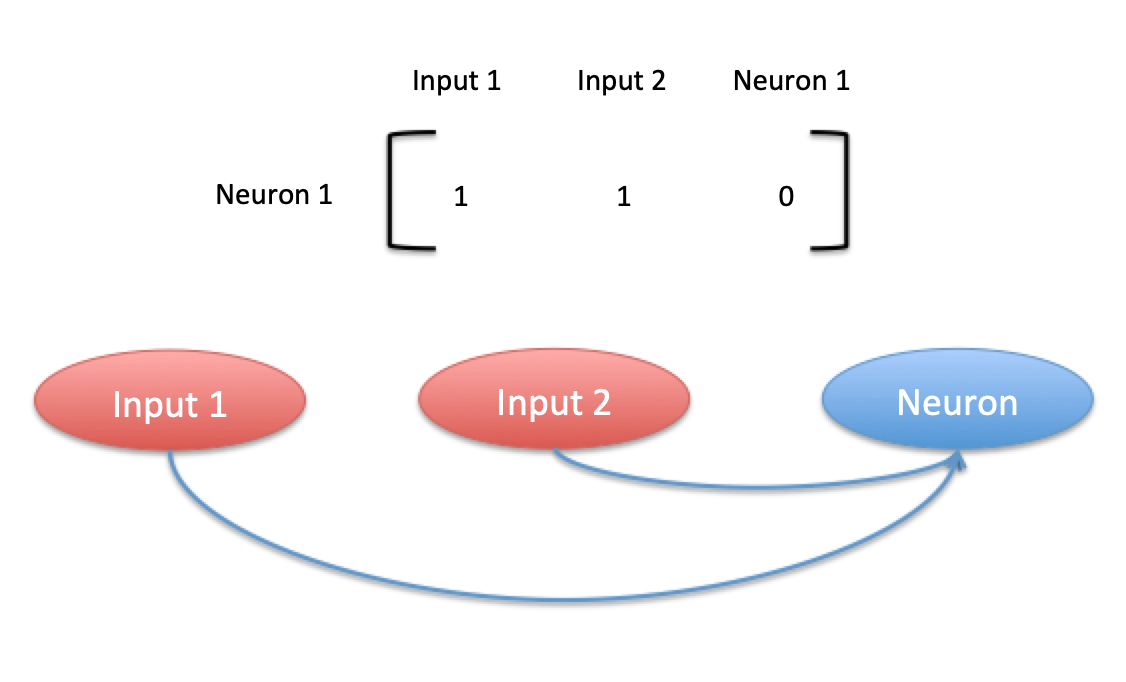
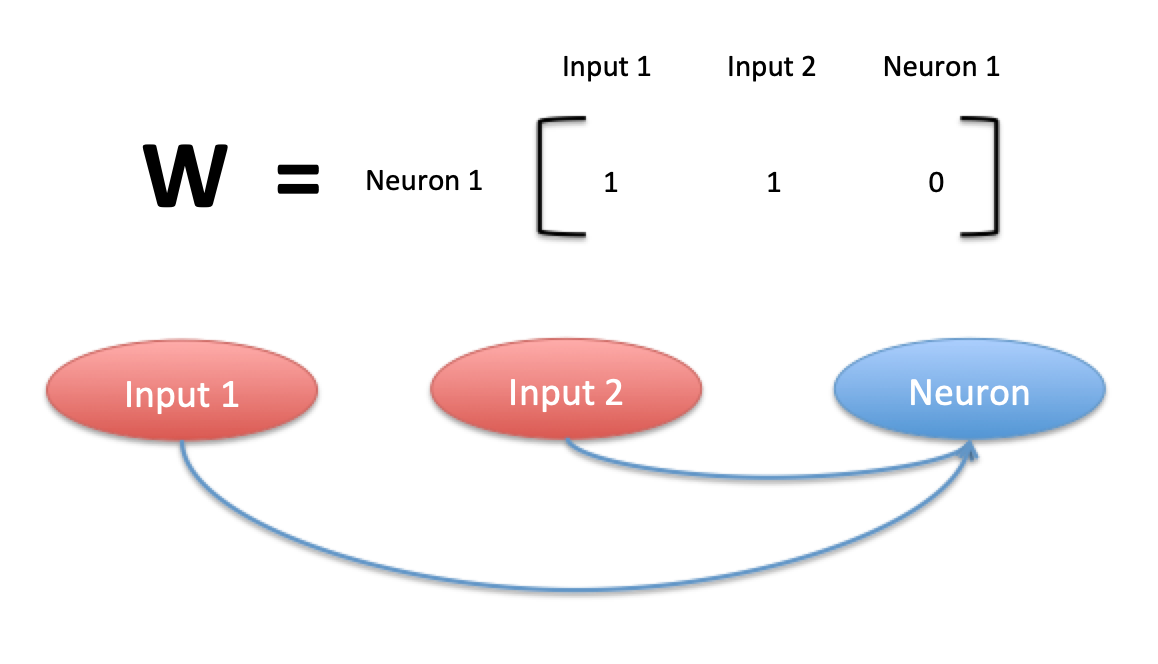
Update to readme

diff --git a/network.py b/network.py
@@ -45,7 +45,7 @@ class Network:
                     inputs[row] += self.weights[row][col]*get_prev_output(row,col)
         return inputs
                 
-    def propagate(external_inputs, self):
+    def network_step(external_inputs, self):
         # update the state of each neuron 
         neuron_inputs = generate_neuron_inputs(external_inputs)
         for i,neuron in enumerate(self.neurons):
@@ -61,7 +61,7 @@ class Network:
         pass
         
 # List of Neuron objects
-neur_1=Neuron({'x0': 0, })
+neur_1=Neuron({'x0': 0})
 neurons=[neur_1,neur_2,neur_3]
 # Weight matrix
 # Input goes 1, 1 goes to 2, 2 goes to 3, 3 goes to output

diff --git a/readme.md b/readme.md
@@ -5,12 +5,18 @@ Once initialized, a Network's primary method is to take in a set of signals at a
 
 ### Defining connections
 
-A network can be thought of as a system with $N+I$ "nodes" and $(N+I)^2$ "connections" between them, where $N$ is the number of neurons and $I$ is the number of inputs. 
+A network can be thought of as a system of inputs and outputs. 
+
+To construct your W matrix, consider the examples in the following images. 
 
 ![Alt text](graphics/simple_network.png "Simple network")
-
-To build your W and T matrices, consider the example in the image above. Read this as "neuron 1 (leftmost array) takes from input, neuron 2 (inner array) takes from neuron 1, output takes from neuron 2".
 
 ![Alt text](graphics/complex_network.png "Complicated network")
 
 ![Alt text](graphics/multi_input_network.png "Multi-input network")
+
+Each row corresponds to a neuron. Each column corresponds to an input source, with the raw inputs coming first and the neurons coming second. The element of W in row i and column j should be interpreted as "neuron i gets its input from input-source j". 
+
+The time delay matrix is simpler. In a similar way, the element of T in row i and column j should be interpreted as "neuron i gets its input from neuron j".
+
+![Alt text](graphics/time_delay_example.png "Time delay matrix format")
